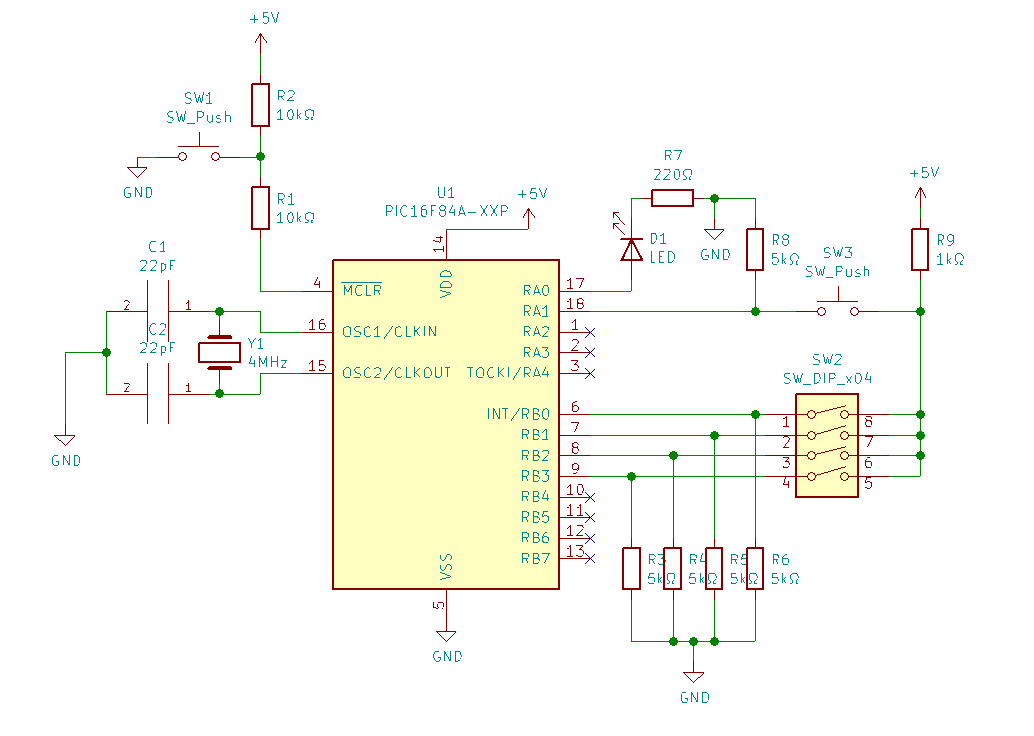
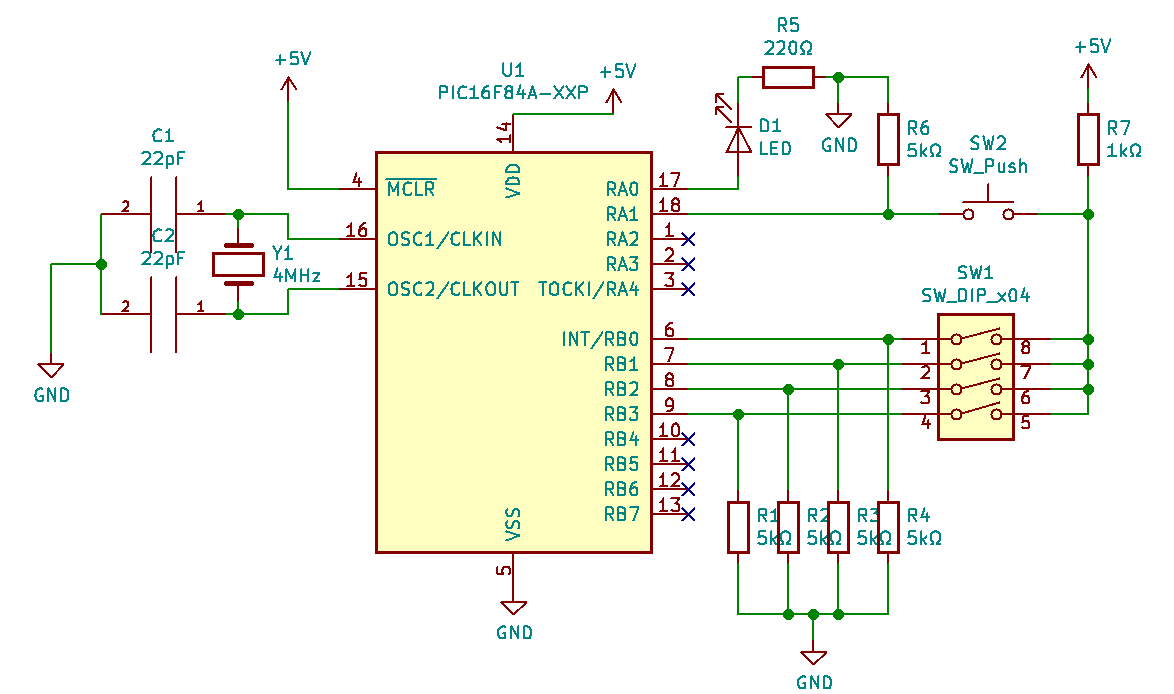
Remover circuito de reset, actualiza README

diff --git a/README.md b/README.md
@@ -5,7 +5,7 @@ Este es un sistema de seguridad por medio de contraseña haciendo uso del microc
 
 Cada palabra de la contraseña es ingresada haciendo uso del *PORTB* del microcontrolador (Los pines 6:13 o RB0:RB7 en el diagrama). En el ejemplo, cada palabra está compuesta por un *nibble* (Cuatro bits), por lo que tiene 2⁴ (16) estados posibles, aunque puede hacerse uso del byte completo sin cambiar el código, realizando las conexiones pertinentes en los pines restantes, para tener 2⁸ (256) estados. En el código se incluyen por defecto cuatro palabras para la contraseña, lo que es decir en el ejemplo, (2⁴)⁴ (65,536) contraseñas distintas, permitiendo hasta 4,294,967,296 contraseñas distintas usando el PORTB completo sin necesidad de aumentar el número de palabras, y una cantidad mucho más alta si aumenta el número de palabras por contraseña (Lo cual requiere una modificación del código).
 
-Al encender el microcontrolador, este se encuentra inicialmente en estado desbloqueado. En este estado es posible que el usuario agregue una contraseña. Para hacerlo, hay que modificar el estado del switch de entrada (SW2 en el diagrama esquemático), y posteriormente presionar el botón de 'cargar palabra' (SW3). Una vez cargadas las cuatro palabras, el microcontrolador cierra su salida. Para desbloquear nuevamente sistema, hay que ingresar la contraseña de manera análoga, ingresando una palabra en el switch de entrada, y cargandola con el botón de cargar palabra. El sistema no muestra ninguna retroalimentación sobre las palabras ingresadas, por lo que es imposible saber si una palabra pertenece a una contraseña sin conocer esta.
+Al encender el microcontrolador, este se encuentra inicialmente en estado desbloqueado. En este estado es posible que el usuario agregue una contraseña. Para hacerlo, hay que modificar el estado del switch de entrada (SW1 en el diagrama esquemático), y posteriormente presionar el botón de 'cargar palabra' (SW2). Una vez cargadas las cuatro palabras, el microcontrolador cierra su salida. Para desbloquear nuevamente sistema, hay que ingresar la contraseña de manera análoga, ingresando una palabra en el switch de entrada, y cargandola con el botón de cargar palabra. El sistema no muestra ninguna retroalimentación sobre las palabras ingresadas, por lo que es imposible saber si una palabra pertenece a una contraseña sin conocer esta.
 
 El proyecto se encuentra listo para modificar y compilar. El compilador de este ensamblador es *mpasm*, el cual puede usarse de manera independiente, o encontrarse en el software *MPLAB* de *Microchip*. Convenientemente, el repositorio está ya organizado para ser cargado directamente a MPLAB, sólo es necesario clonar el repositorio o descargarlo en ZIP, y abrirlo con MPLAB (El IDE ignorará automáticamente el diagrama y este archivo).
 
